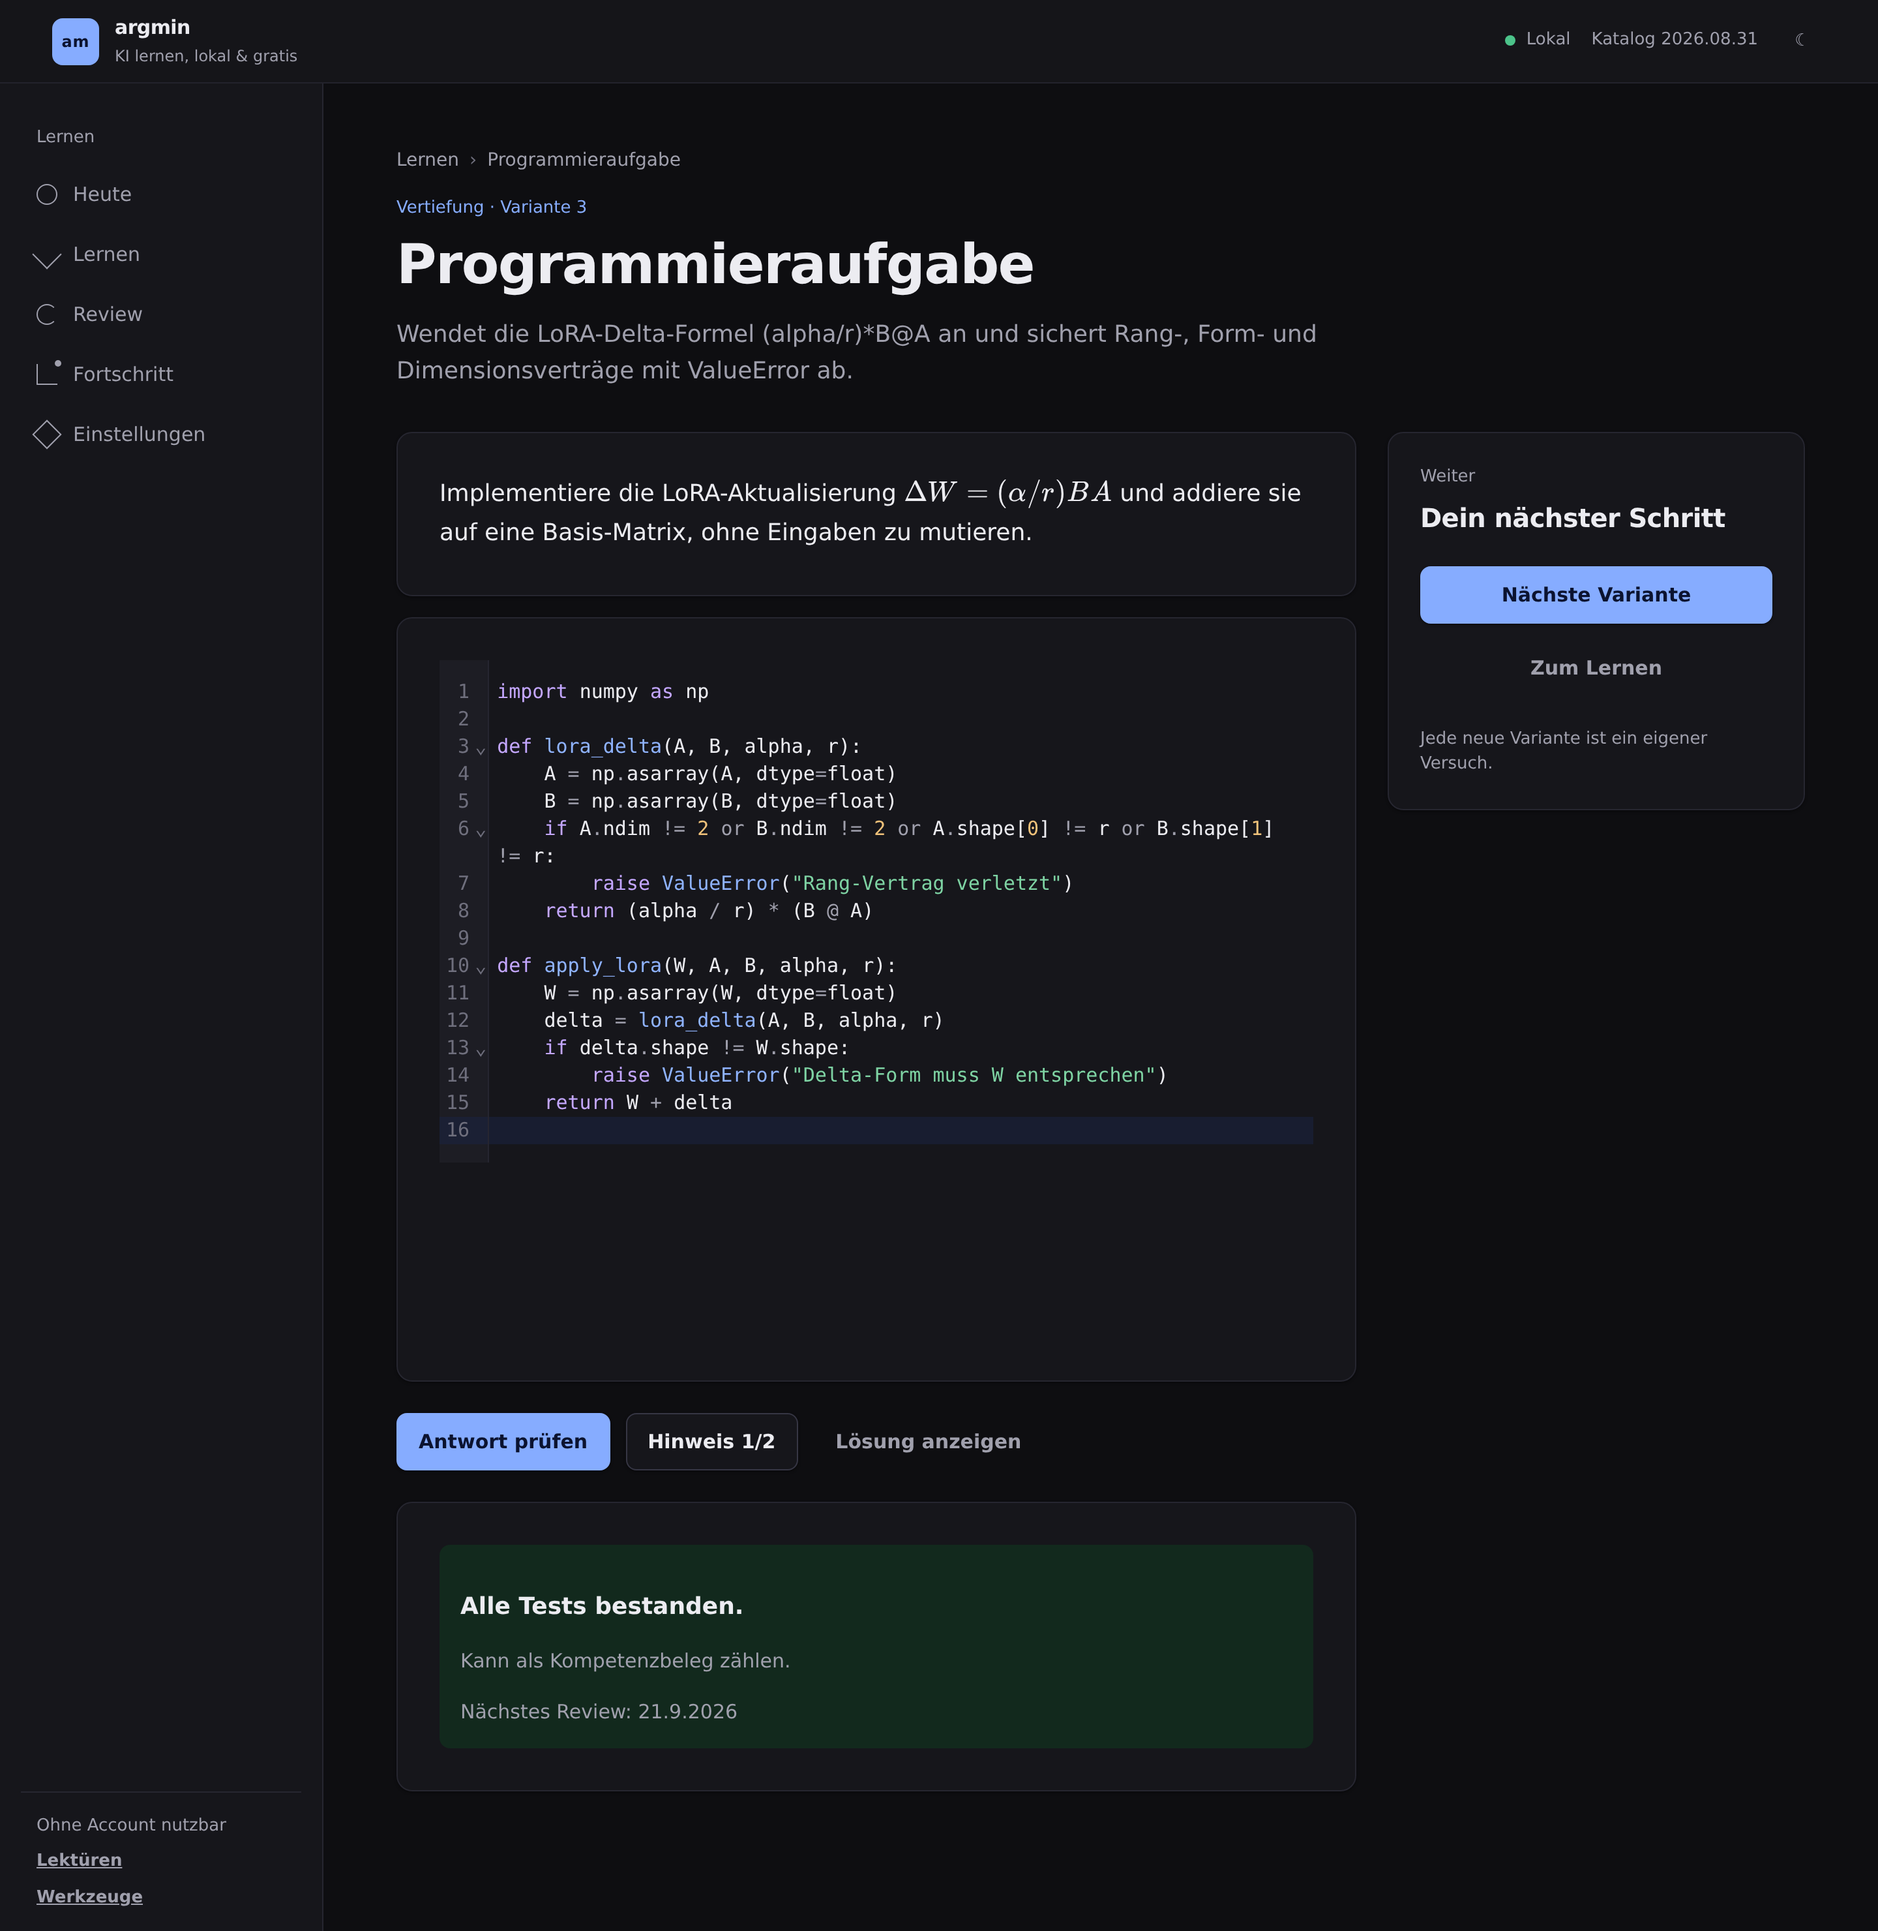
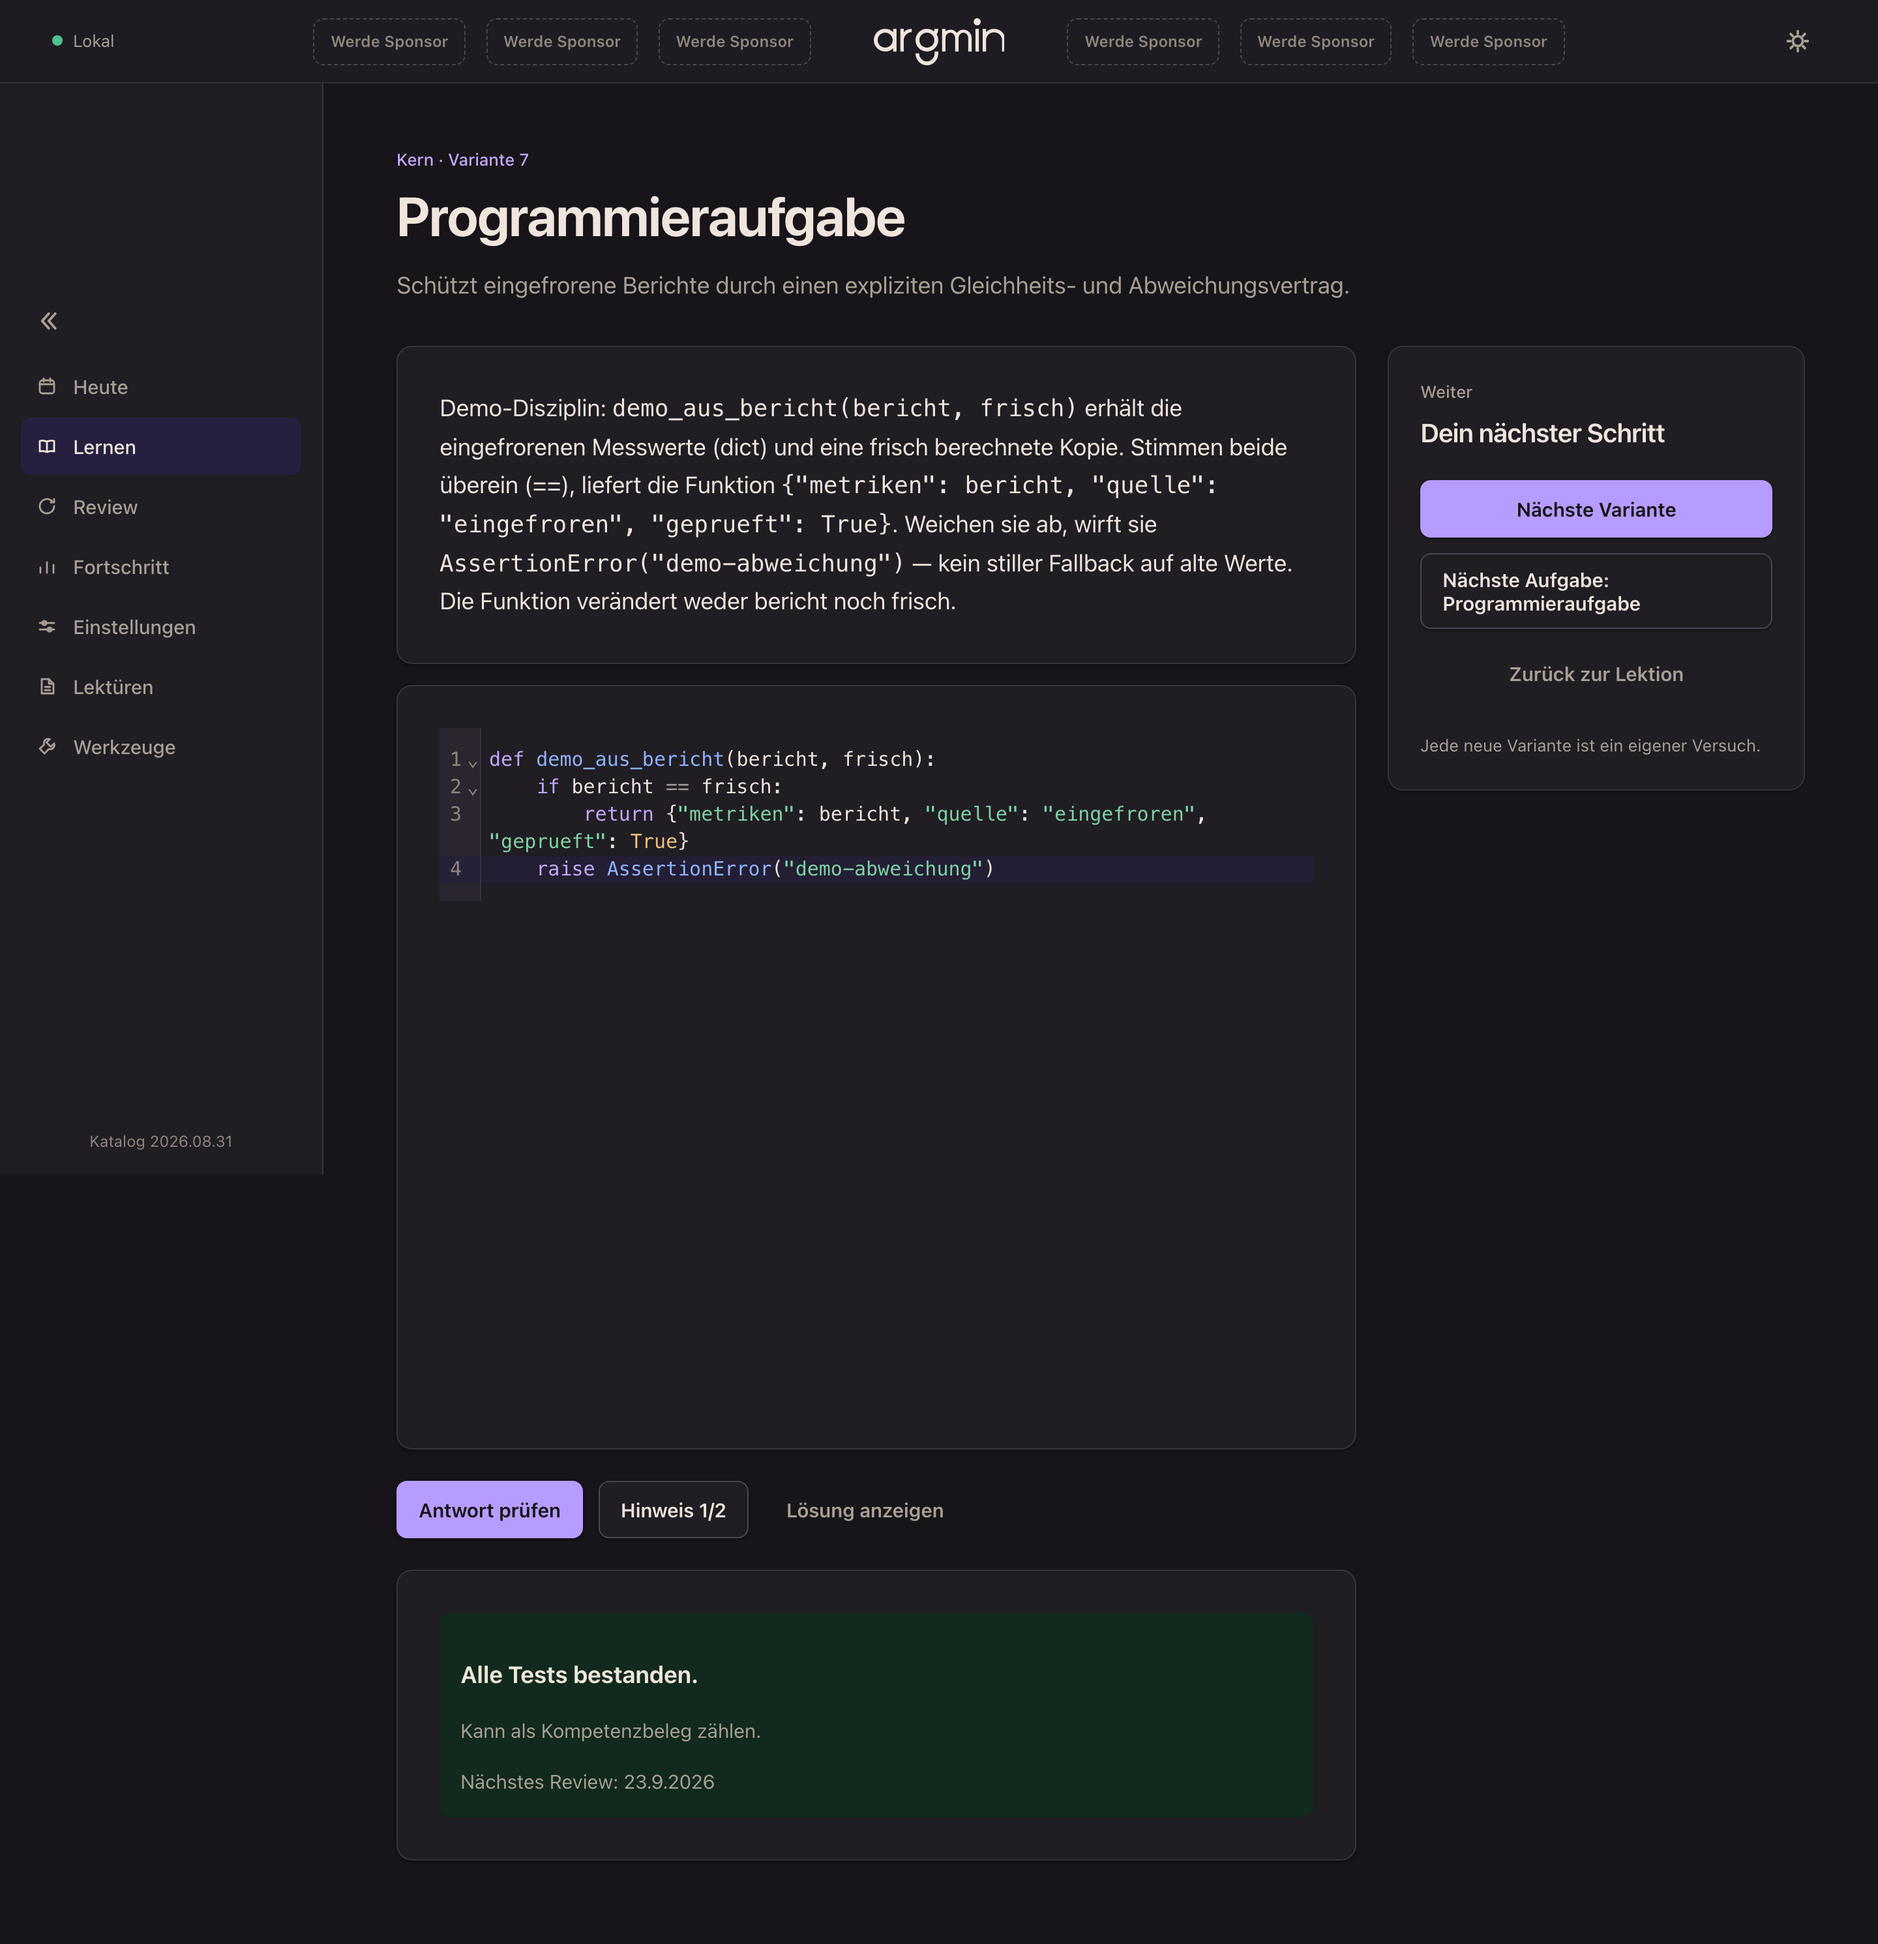
README: neue Screenshots und Python-Demo-GIF
- Heute- und Lernpfad-Seite mit neuem UI
- Programmieraufgabe mit gruenem Pruefergebnis
- Demo-GIF: Code tippen, pruefen, Tests bestehen

diff --git a/README.md b/README.md
@@ -2,6 +2,8 @@
 
 **KI verstehen, Schritt für Schritt. Auf Deutsch, direkt im Browser. Kostenlos.**
 
+[![Die Heute-Seite in argmin: Empfehlung, Milestone und Wochenplan, dunkles Theme](docs/media/heute-dark.png)](https://smashburger-dev.github.io/argmin/)
+
 [![Der Lernpfad in argmin: Module in sinnvoller Reihenfolge, dunkles Theme](docs/media/lernpfad-dark.png)](https://smashburger-dev.github.io/argmin/)
 
 argmin ist eine offene Lernplattform für alle, die verstehen wollen, wie künstliche Intelligenz wirklich funktioniert: von den Mathe-Grundlagen über Lineare Algebra und Machine Learning bis zu Deep Learning, Transformern und GenAI. Kein Vorwissen nötig. Fang von dort an, wo du jetzt gerade stehst.
@@ -31,9 +33,9 @@ Das war's. Kein Account, keine Installation, keine Kosten. Dein Fortschritt blei
 - **Python direkt im Browser.** Du schreibst und testest echten Code, ohne irgendetwas zu installieren.
   + NumPy für Matrizen und Vektoren, sauber gesetzte Formeln (KaTeX) und interaktive Grafiken zum Anfassen (JSXGraph)… LOKAL!
 
-  ![Eine Programmieraufgabe in argmin: Formel, Python-Editor und grünes Prüfergebnis](docs/media/python-aufgabe-dark.png)
+  ![Eine Programmieraufgabe in argmin: Aufgabenstellung, Python-Editor und grünes Prüfergebnis](docs/media/python-aufgabe-dark.png)
 
-  <!-- GIF-Platz: docs/media/python-demo.gif (Code tippen, prüfen, grün) — kommt noch. -->
+  ![Demo: Code in den Editor tippen, prüfen, alle Tests bestehen](docs/media/python-demo.gif)
 - **Üben, bis es sitzt.** Viele Aufgaben erzeugen immer neue Varianten, du kannst also so oft üben, wie du willst. _Jede Aufgabe entsteht aus einem Startwert. Gleicher Startwert, gleiche Aufgabe — überall. Neuer Startwert, neue Aufgabe. So oft du willst, ohne Server._
 - **Ehrliches Feedback.** Deine Antworten werden nachvollziehbar und deterministisch geprüft. Keine KI, die rät, ob du richtig liegst.
 - **Ein Plan, der zu dir passt.** Wiederholungen zum richtigen Zeitpunkt und ein Wochenplan nach deinem Zeitbudget
